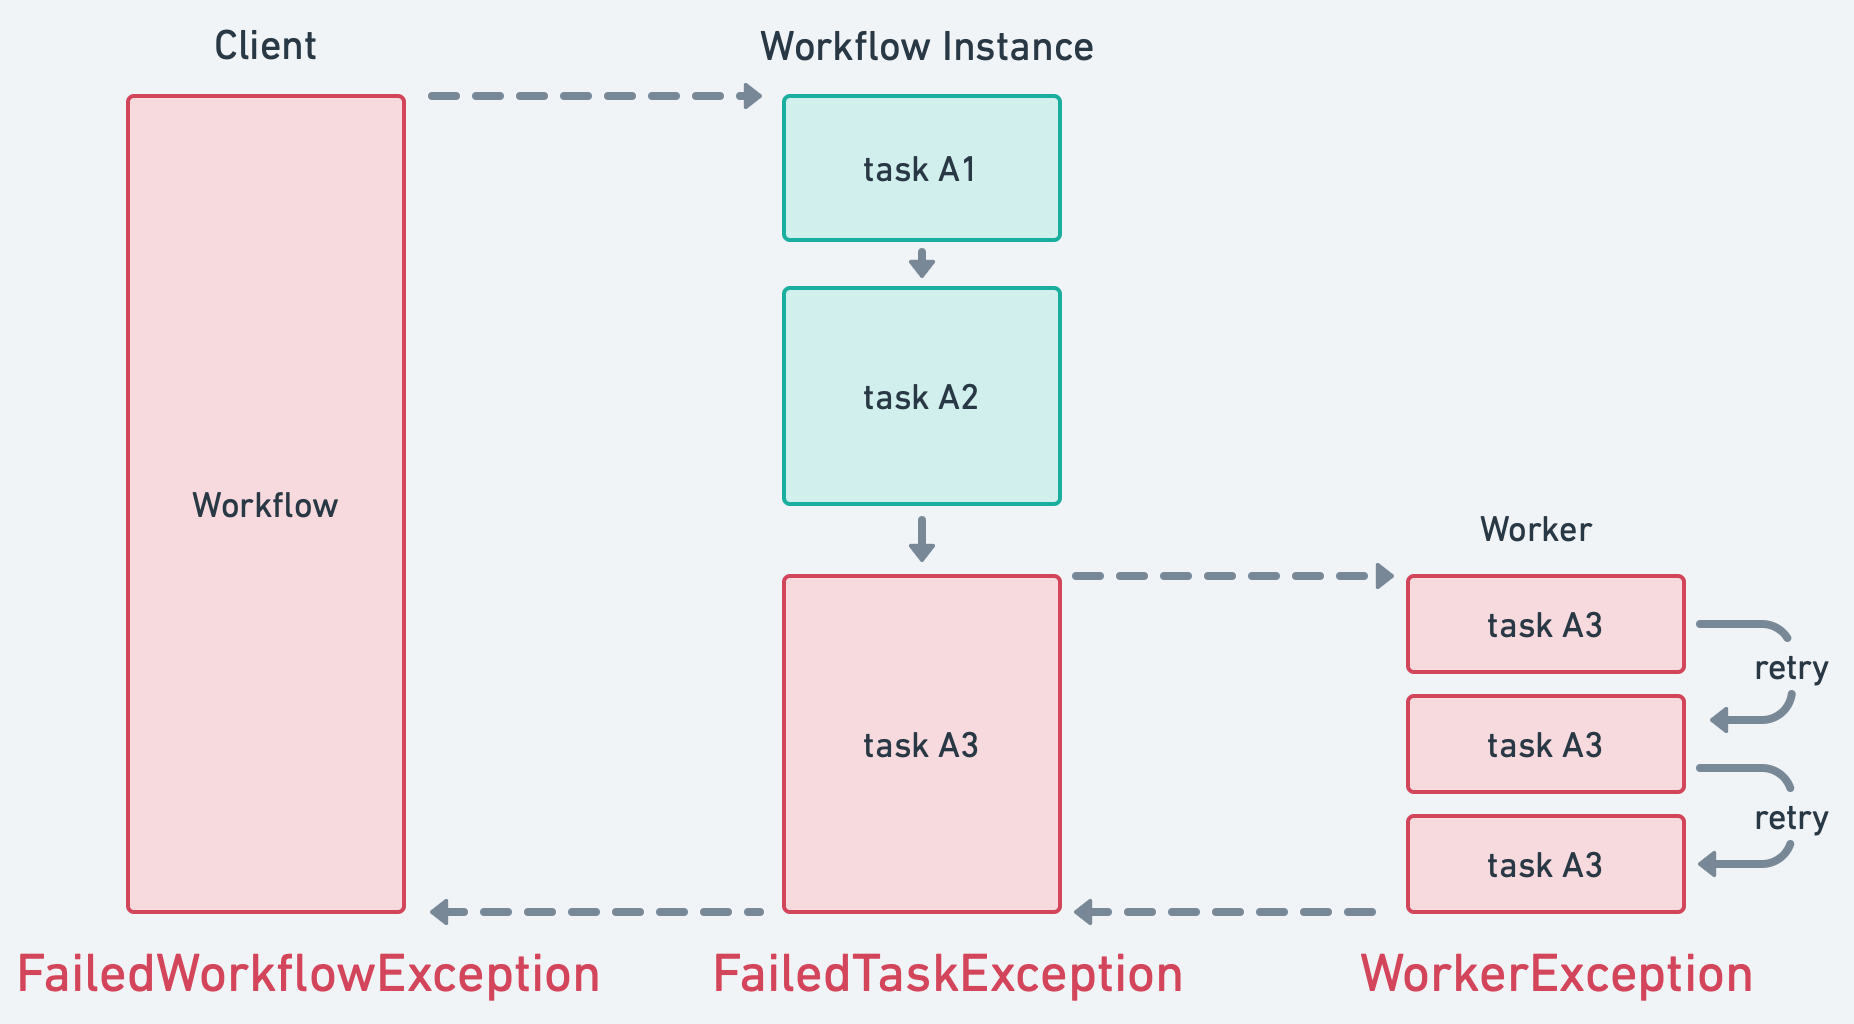
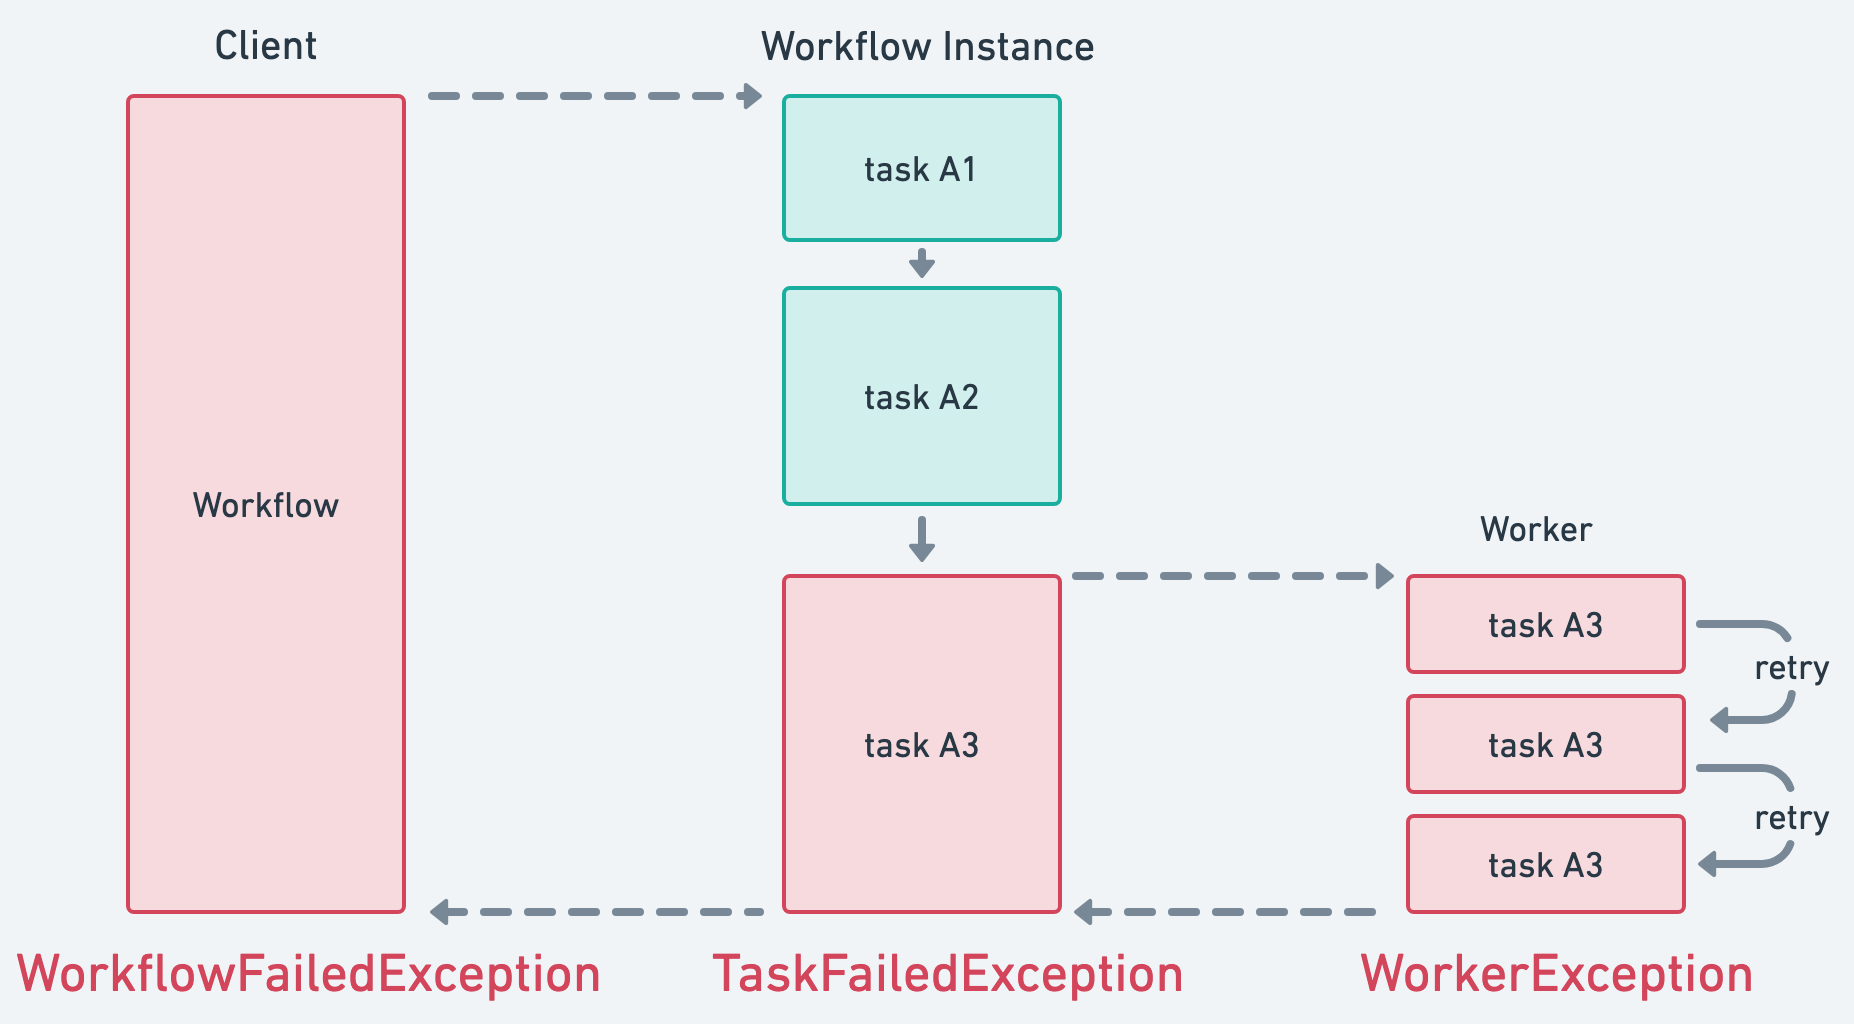
Improved errors in docs

diff --git a/src/pages/docs/workflows/errors.md b/src/pages/docs/workflows/errors.md
@@ -5,6 +5,7 @@ description: This page discusses strategies for error handling within workflows,
 
 Handling errors in a distributed system is typically complex. Infinitic simplifies this by automatically tracking error chains and allowing you to handle errors directly within the workflow.
 
+
 ## Error when processing a task
 
 Tasks are processed within workers. If an exception occurs while processing a task, it is caught by the worker, and the task is automatically retried according to the [retry policy](/docs/services/syntax#task-retries).
@@ -31,7 +32,7 @@ What happens next in the workflow depends on whether it is waiting for the task 
 
 ### If the workflow expects the task result
 
-This situation occurs when a task is dispatched synchronously or when [awaiting](/docs/workflows/deferred#waiting-for-completion) the result of a `Deferred<T>`. Here, a `FailedTaskException` is thrown within the workflow, containing these properties:
+This situation occurs when a task is dispatched synchronously or when [awaiting](/docs/workflows/deferred#waiting-for-completion) the result of a `Deferred<T>`. Here, a `TaskFailedException` is thrown within the workflow, containing these properties:
 
 | Property            | Type            | Description        |
 | ------------------- | --------------- | ------------------ |
@@ -42,16 +43,16 @@ This situation occurs when a task is dispatched synchronously or when [awaiting]
 
 ![Error when processing a sync task](/img/error-task-sync@2x.png)
 
-If the client expects this workflow's result, it will encounter a `FailedWorkflowException`:
+If the client expects this workflow's result, it will encounter a `WorkflowFailedException`:
 
 ![Error when processing a sync task](/img/error-task-sync-client@2x.png)
 
 
-Additionally, if another workflow expects this workflow's result, it will also encounter a `FailedWorkflowException`:
+Additionally, if another workflow expects this workflow's result, it will also encounter a `WorkflowFailedException`:
 
 ![Error when processing a sync task](/img/error-task-sync-child@2x.png)
 
-The `FailedWorkflowException` includes these properties:
+The `WorkflowFailedException` includes these properties:
 
 | Property              | Type              | Description            |
 | --------------------- | ----------------- | ---------------------- |
@@ -61,7 +62,7 @@ The `FailedWorkflowException` includes these properties:
 | `methodRunId`       | String            | Method run id          |
 | `deferredException` | DeferredException | Cause of workflow failure |
 
-In the example above, `deferredException` would be a `FailedTaskException`.
+In the example above, `deferredException` would be a `TaskFailedException`.
 
 ### If the workflow does not expect the task result
 
@@ -69,22 +70,22 @@ This occurs when a task is dispatched [asynchronously](/docs/workflows/parallel#
 
 ![Error when processing an async task](/img/error-task-async@2x.png)
 
-In this case, the task fails, but the workflow continues without error, as the failed task is not on the main execution path. If the workflow later waits for the result, a `FailedTaskException` will be thrown at that time:
+In this case, the task fails, but the workflow continues without error, as the failed task is not on the main execution path. If the workflow later waits for the result, a `TaskFailedException` will be thrown at that time:
 
 ![Error when processing an async task](/img/error-task-async-2@2x.png)
 
 ## Errors due to cancellation and more
 
-Failures of synchronous tasks result in `FailedTaskException`, while failures of synchronous child workflows result in `FailedWorkflowException`. Similar errors arise from cancellation and other scenarios:
+Failures of synchronous tasks result in `TaskFailedException`, while failures of synchronous child workflows result in `WorkflowFailedException`. Similar errors arise from cancellation and other scenarios:
 
 | Name                            | When it happens                                                                                                                                                        |
 | ------------------------------- | ---------------------------------------------------------------------------------------------------------------------------------------------------------------------- |
-| `FailedTaskException`         | The task has failed after all planned retries have failed.               |
-| `CanceledTaskException`       | The task has been canceled.                                              |
-| `FailedWorkflowException`     | The targeted workflow has a failed synchronous task or child workflow    |
-| `CanceledWorkflowException`   | The targeted workflow has been canceled.                                 |
-| `UnknownWorkflowException`    | The targeted workflow never existed or is already completed or canceled. This can occur when dispatching a method on a stub created by `getWorkflowById`.  |
-| `FailedWorkflowTaskException` | An error occurred directly within the workflow code.                     |
+| `TaskFailedException`         | The task has failed after all planned retries have failed.               |
+| `TaskCanceledException`       | The task has been canceled.                                              |
+| `WorkflowFailedException`     | The targeted workflow has a failed synchronous task or child workflow    |
+| `WorkflowCanceledException`   | The targeted workflow has been canceled.                                 |
+| `WorkflowUnknownException`    | The targeted workflow never existed or is already completed or canceled. This can occur when dispatching a method on a stub created by `getWorkflowById`.  |
+| `WorkflowTaskFailedException` | An error occurred directly within the workflow code.                     |
 
 {% callout type="note"  %}
 
@@ -94,13 +95,8 @@ All these exceptions inherit from `io.infinitic.exceptions.DeferredException`
 
 ## Try/catch in workflows
 
-You might want to handle a `DeferredException` or one of its subclasses, for example to react to task failures with new tasks.
+Use try/catch of `DeferredException` in workflows to ensure that the workflow continues even in case of Service failure (i.e. after all the retries have failed). 
 
-{% callout type="note"  %}
-
-Use try/catch in workflows only for unexpected failures. For expected failures, catch them within the task and return a status object.
-
-{% /callout  %}
 
 {% codes %}
 
@@ -127,10 +123,17 @@ val str = try {
 
 {% /codes %}
 
-{% callout type="warning"  %}
+Remember, for expected failures, it's a better practice to handle them within the Service and return a status object.
 
-`DeferredException` and its sub-classes are the only relevant exceptions in workflows. We must not catch any other exception.
+{% callout %}
+
+A caught `DeferredException` in a workflow cannot be resumed, as the workflow has already "moved on".
 
 {% /callout  %}
 
-A `DeferredException` caught in a workflow cannot be resumed.
+{% callout type="warning" %}
+
+`DeferredException` and its subclasses are the only relevant exceptions in workflows. Do not catch any other exceptions. Specifically, actual exceptions thrown in service or child-workflow workers are wrapped in the `DeferredException`. It is not meaningful to try to catch these exceptions directly.
+
+
+

diff --git a/src/pages/docs/workflows/syntax.md b/src/pages/docs/workflows/syntax.md
@@ -76,7 +76,7 @@ The abstract class `io.infinitic.workflows.Workflow` exposes a set of useful fun
 
 ## Constraints
 
-{% callout type="warning"  %}
+{% callout  %}
 
 A workflow class must
 
@@ -110,7 +110,7 @@ For example, to manage 1 million tasks, we can have a workflow dispatching 1000 
 
 {% /callout  %}
 
-## Recommendations
+## Good Practices
 
 For easier [versioning of workflows](/docs/workflows/versioning), we recommend that:
 
@@ -154,7 +154,7 @@ interface MyWorkflow {
 {% /codes %}
 
 
-## Dispatch a task
+## Dispatch A Task
 
 Workflows only need to know the interface of remote services to be able to use them.
 
@@ -219,7 +219,7 @@ class MyWorkflow : Workflow(), MyWorkflowInterface {
 
 {% callout type="warning"  %}
 
-If the return type of the task is `void`, we need to use `dispatchVoid` function instead of `dispatch`.
+JAVA ONLY: If the return type of the task is `void`, we need to use `dispatchVoid` function instead of `dispatch`.
 
 {% /callout  %}
 
@@ -243,7 +243,7 @@ A global timeout represents the maximal duration of the task dispatched by workf
 
 Defining global timeouts can be useful to ensure that a workflow is never stuck.
 
-## Dispatch a child-workflow
+## Dispatch A Child-Workflow
 
 By using the `newWorkflow` function on a workflow interface, we create a stub that behaves syntactically as an instance of the workflow but sends a message to Pulsar that will trigger the remote execution of the workflow.
 
@@ -330,7 +330,7 @@ A global timeout represents the maximal duration of the child workflow before a 
 
 Defining global timeouts can be useful to ensure that a workflow is never stuck.
 
-## Inline task
+## Inline Task
 
 As described [here](/docs/workflows/syntax), any non-deterministic instructions, or instructions with side-effect, should be in tasks, not in workflows. For very simple instructions, it can be frustrating to write such simple tasks. For those cases, we can use inline tasks:
 
@@ -366,7 +366,7 @@ If the return type of the lambda describing the inline task is `void`, we need t
 
 {% /callout  %}
 
-## Receive signal
+## Receive Signal
 
 Workflow can receive signals from "outside". Signals are typed and sent through "channels". The workflow interface must have a getter method returning a `SendChannel<Type>`. For example:
 
@@ -443,7 +443,7 @@ Channels can be of any [serializable](/docs/references/serializability) type.
 
 Per default, a signal sent to a running workflow is discarded. Before a workflow can receive a signal, it must first declare that it is waiting for it using the `receive` method on the channel.
 
-## Manage time
+## Manage Time
 
 Time can be managed using the `timer` function. A call to the `timer` function creates a `Deferred<Instant>` that will be completed at the given time:
 
@@ -522,7 +522,7 @@ Internally, a delayed Pulsar message is sent to wake up the workflow when the ti
 
 [Properties](/docs/workflows/properties) in workflows are saved along with the workflow state. Properties are especially useful in workflows where multiple methods are called, either sequentially or in parallel. They can represent business values updated by these methods. An example can be found in the introduction, illustrating a [Loyalty Program](/docs/introduction/examples#loyalty-program).
 
-## Interacting with other workflows
+## Interacting With Other Workflows
 
 It's possible to interact with another running workflow from a workflow.
 To do so, we create the stub of a running workflow from its id:
@@ -686,7 +686,7 @@ class LoyaltyImpl : Workflow(), Loyalty {
 
 {% /codes %}
 
-## @Name annotation
+## @Name Annotation
 
 A workflow instance is internally described by both its full java name (package included) and the name of the method called.
 
@@ -730,7 +730,7 @@ workflows:
     class: hello.world.workflows.HelloWorldWorkflowImpl
 ```
 
-## @Ignore annotation
+## @Ignore Annotation
 
 At each step of the execution of a workflow, its properties are automatically serialized and stored. Those properties are part of the state of the workflow.
 
@@ -805,3 +805,14 @@ private val helloWorldWorkflow = newWorkflow(
 ```
 
 {% /codes %}
+
+## Service's Exceptions
+
+As discussed in the [service syntax](/docs/services/syntax) documentation, it's recommended to handle non-technical failures through a status in the return value of services. Infinitic doesn't expect `throws` clauses in Service interfaces.
+
+If a Service interface does contain throws clauses:
+
+- In Java: Add them to the workflow class or method, or use the `@SneakyThrows` annotation from Lombok.
+- In Kotlin: No additional action is required due to Kotlin's exception handling.
+
+For more information on error handling in workflows, refer to the [error handling](/docs/workflows/errors) documentation.

diff --git a/src/pages/docs/workflows/sequential.md b/src/pages/docs/workflows/sequential.md
@@ -2,6 +2,7 @@
 title: Sequential Tasks
 description: This documentation covers the implementation of sequential tasks within workflows, showcasing how tasks are executed one after another, with practical examples.
 ---
+
 For infinitic, a [task](/docs/services/syntax) is basically the method of a class. The implementation of this class is only needed in [workers](/docs/services/workers) where the task is actually processed.
 
 Within workflows, we should know only the interface of the class, used by the `newService` workflow function to create a [stub](https://en.wikipedia.org/wiki/Method_stub). Syntactically, this stub can be used as an implementation of the task:

diff --git a/src/pages/docs/community/releases.md b/src/pages/docs/community/releases.md
@@ -566,7 +566,7 @@ This release fixes a configuration bug in Java compatibility in 0.9.1
 {% version-improvements /%}
 
 - improved default value when using channels in Java
-- refactored error management in workflows, with new exception: WorkerException, FailedTaskException, FailedWorkflowException, UnknowWorkflowException...
+- refactored error management in workflows, with new exception: WorkerException, TaskFailedException, WorkflowFailedException, UnknowWorkflowException...
 - bump version of plugins and libs
 
 ---

diff --git a/src/pages/docs/clients/start-workflow.md b/src/pages/docs/clients/start-workflow.md
@@ -81,7 +81,7 @@ The `Deferred<T>` object can be used to:
 
   {% callout type="warning"  %}
 
-  The `await()` method blocks the current thread of the client - up to the workflow termination. It will throw an `UnknownWorkflowException` if the workflow is already terminated.
+  The `await()` method blocks the current thread of the client - up to the workflow termination. It will throw an `WorkflowUnknownException` if the workflow is already terminated.
 
   {% /callout  %}
 

diff --git a/src/pages/docs/clients/cancel-running-workflows.md b/src/pages/docs/clients/cancel-running-workflows.md
@@ -52,7 +52,7 @@ If we do not want this behavior, we should dispatch our child workflow from a ta
 
 {% /callout  %}
 
-The direct cancellation of a child workflow will trigger a `CanceledWorkflowException` in the parent workflow
+The direct cancellation of a child workflow will trigger a `WorkflowCanceledException` in the parent workflow
 if waiting for its completion.
 
 The `cancel` method waits for the adhoc message to be sent to Pulsar.
